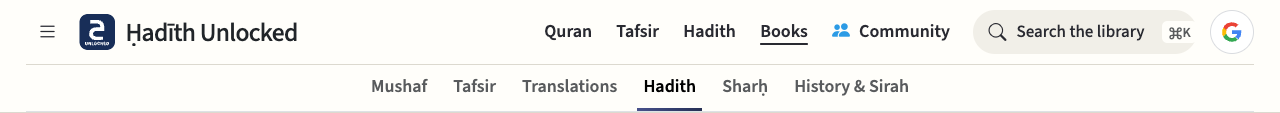
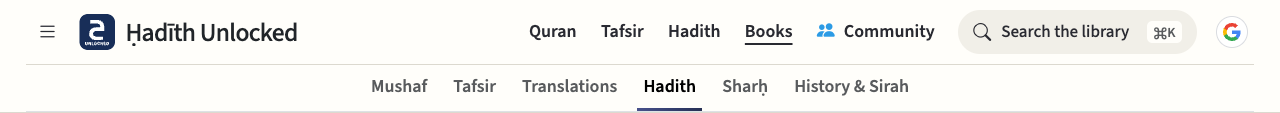
Fix search shortcut inset and audit both edges of compound controls

diff --git a/docs/design-system/library.html b/docs/design-system/library.html
@@ -33,7 +33,7 @@
   </section>
   <section id="navigation"><h2>Navigation &amp; discovery</h2>
     <div class="grid">
-      <article><h3>Site navigation preview</h3><picture><source media="(max-width: 700px)" srcset="shell/header-phone.png"><img src="shell/header.png" alt="Beta masthead with a left menu trigger, brand, navigation, search and account"></picture><p>Show full navigation from 992 px. The global search button uses an inset surface, the label “Search the library”, and a platform-specific keyboard shortcut. Below 992 px, a magnifier opens the same dialog. Keep menu, search and account reachable at both sizes. Group the drawer into Read &amp; study, Memorize, Community and Personal. The footer groups discovery, support and legal links.</p><p><a href="shell/menu.png">View the mobile menu</a> · <a href="shell/footer.png">View the desktop footer</a></p></article>
+      <article><h3>Site navigation preview</h3><picture><source media="(max-width: 700px)" srcset="shell/header-phone.png"><img src="shell/header.png" alt="Beta masthead with a left menu trigger, brand, navigation, search and account"></picture><p>Show full navigation from 992 px. The global search button uses an inset surface, the label “Search the library”, and a platform-specific keyboard shortcut. Leave .85 rem inside each end of the desktop pill, measured to the magnifier and shortcut respectively. Below 992 px, a magnifier opens the same dialog. Keep menu, search and account reachable at both sizes. Group the drawer into Read &amp; study, Memorize, Community and Personal. The footer groups discovery, support and legal links.</p><p><a href="shell/menu.png">View the mobile menu</a> · <a href="shell/footer.png">View the desktop footer</a></p></article>
       <article><h3>Category rail &amp; local search</h3><picture><source media="(max-width: 700px)" srcset="settings/rail-mobile.png"><img src="settings/rail.png" alt="Compact Search settings field above the category links"></picture><p>Place the Settings category rail to the right of the panels, with one compact search field above its links. Name its scope in the placeholder and accessible label. Below 701 px, the rail moves above the content and category links occupy two columns.</p><p>Match nested controls and asynchronously loaded catalogs. Announce the count or empty state. Clear and Escape restore the previous disclosures and return focus to the field.</p></article>
       <article><h3>Disclosure with current value</h3><img src="settings/disclosures.png" alt="Reading and listening rows with their saved values"><p>Group settings by task. Use a native details/summary row with a short label, current value or count, and a chevron. Place the summary below the label on narrow screens. Opening one row keeps the others available.</p></article>
     </div>

diff --git a/skills/hadithdb-ux-audit/scripts/check-search-insets.js b/skills/hadithdb-ux-audit/scripts/check-search-insets.js
@@ -1,0 +1,32 @@
+// Check painted accessory spacing on both consumers of the beta masthead.
+const assert = require('node:assert/strict');
+const { chromium } = require('playwright');
+
+async function check(page, route, width) {
+  await page.setViewportSize({ width, height: 900 });
+  await page.goto('http://localhost:3004' + route, { waitUntil: 'domcontentloaded' });
+  const button = page.locator('.command-search-compact-trigger');
+  await button.waitFor();
+  const { leading, trailing, expected } = await button.evaluate(async el => {
+    await document.fonts.ready;
+    const bounds = el.getBoundingClientRect();
+    return {
+      leading: el.querySelector('i').getBoundingClientRect().left - bounds.left,
+      trailing: bounds.right - el.querySelector('kbd').getBoundingClientRect().right,
+      expected: .85 * parseFloat(getComputedStyle(document.documentElement).fontSize)
+    };
+  });
+  console.log({ route, width, leading, trailing, expected });
+  for (const inset of [leading, trailing]) assert(Math.abs(inset - expected) < 1);
+}
+
+(async () => {
+  const browser = await chromium.launch({ channel: 'chrome' });
+  try {
+    const page = await browser.newPage();
+    for (const route of ['/settings/beta', '/books/beta'])
+      for (const width of [992, 1280]) await check(page, route, width);
+  } finally {
+    await browser.close();
+  }
+})().catch(error => { console.error(error); process.exitCode = 1; });

diff --git a/public/static/css/ux-shell.css b/public/static/css/ux-shell.css
@@ -27,7 +27,7 @@
 .ux-masthead .nav-google-signin,.ux-masthead .nav-google-placeholder { min-width: 44px; min-height: 44px; }
 .ux-masthead #icon-menu,.ux-masthead .top-nav-icon-link > i { font-size: 21px; line-height: 1; }
 .ux-masthead .command-search-compact-trigger {
-  gap: .55rem; padding: .3rem .65rem .3rem .85rem; white-space: nowrap;
+  gap: .55rem; padding: .3rem .85rem; white-space: nowrap;
   border: 0; border-radius: 2rem; background: var(--ivory-inset, var(--bs-tertiary-bg));
   color: var(--shell-ink); font: 500 .95rem/1.25 var(--ux-font-ui);
 }

diff --git a/skills/hadithdb-ux-audit/SKILL.md b/skills/hadithdb-ux-audit/SKILL.md
@@ -28,6 +28,7 @@ Concrete Settings comparisons to carry forward:
 - **Round trips and feedback.** Enter a shared destination from each parent route, then use its visible Back link. Verify the originating panel is open and visible, including its Quran or beta variant. Where one page mixes explicit-save and immediate actions, verify each result appears beside the controls that triggered it.
 - **Type hierarchy across routes.** Compare a catalog with the accepted reference page at identical desktop and phone widths. Measure computed type on global and local navigation, rail titles and links, page and group headings, item titles in each script, metadata and badges. When two roles should match, record both computed values at identical viewports and assert equality for family, size, weight and line height. For page titles, run `node skills/hadithdb-ux-audit/scripts/compare-titles.js /settings/beta /books/beta` against the local server. The check fails if any computed value differs. Inspect paired English and Arabic titles together, including diacritics and long names. Compare perceived size at normal reading distance. Check whether static metadata looks clickable alongside real controls. Inspect the rendered page for headings that read like ordinary rows even when their tap targets are large.
 - **Overlay dismissal.** Compare the X on a drawer, a native dialog and a Bootstrap modal, including dynamically built overlays. At matching widths and themes, inspect the glyph, target, focus ring and hover surface. Activate the X and verify focus returns to the opener. Run `node skills/hadithdb-ux-audit/scripts/compare-overlay-close.js` against local Books beta.
+- **Spacing inside compound controls.** Measure both inner edges in the rendered control, from its boundary to the leading icon and trailing accessory. Compare those distances with the intended insets at the breakpoint and at a wider viewport. Check the winning CSS when dimensions differ. For the beta header, run `node skills/hadithdb-ux-audit/scripts/check-search-insets.js` against the local app.
 - **Shared navigation.** On routes with a fixed header, measure how much of the first phone viewport remains for content. Open a later collection directly and check that its active tab is visible. Measure immediately below and above each breakpoint, then repeat after scrolling. Check icon hit areas, drawer focus and Escape return, including overlap with persistent bottom controls. At the end of the list, activate footer links above the bottom controls.
 - **Toolbars.** Open Reciters, Translations, and Tafsir together. Compare the location of the count or description, Enable all, and the Tile / Full selector where present. Check the alignment again when the rail moves above the content and when all entries are enabled.
 
